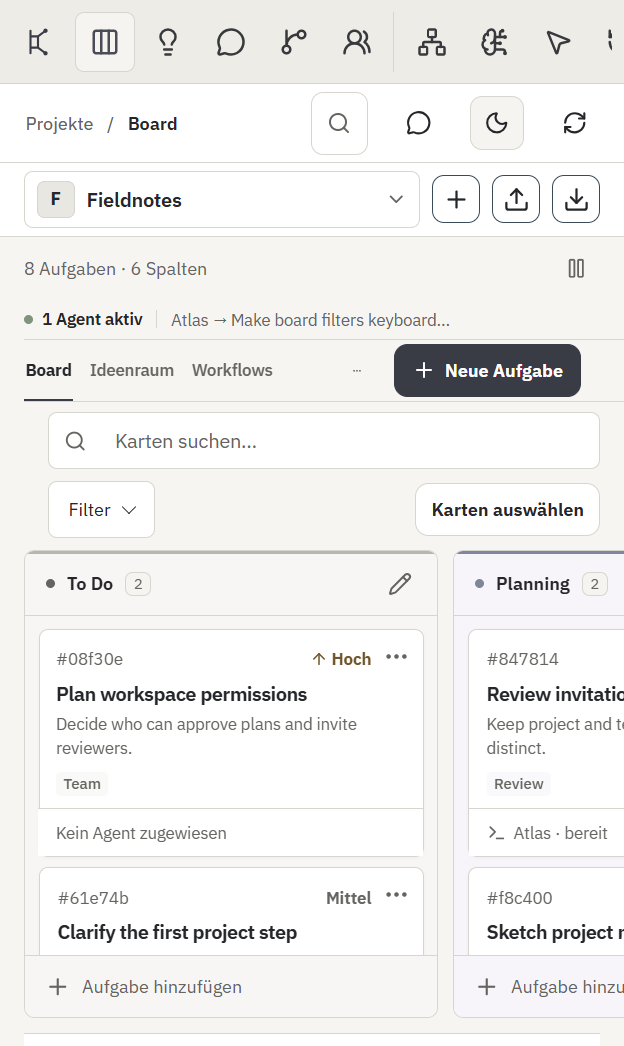
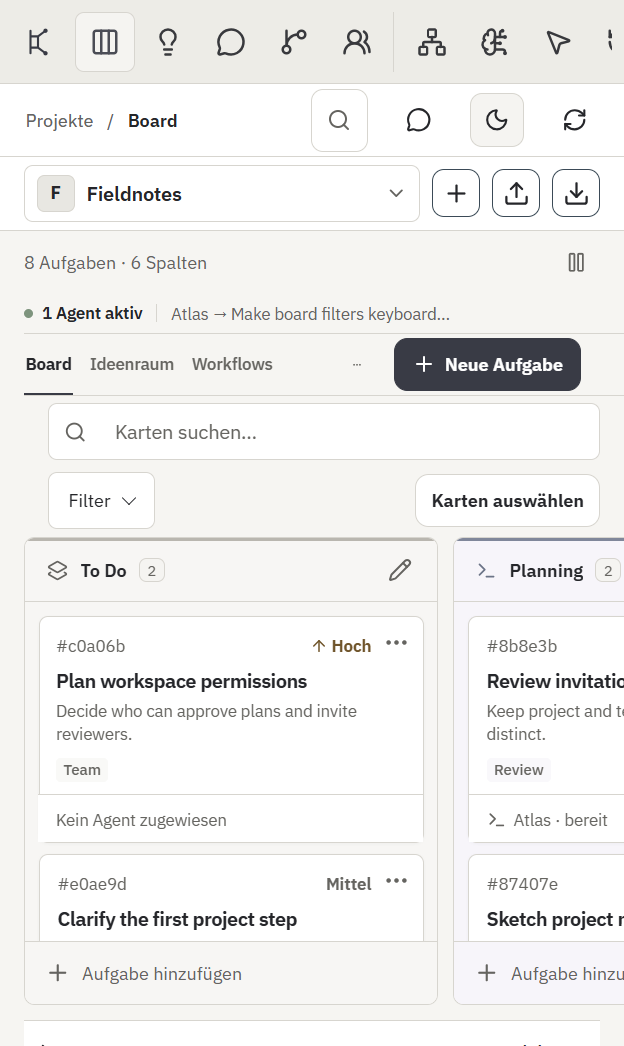
Refine board header density and column mode cues

diff --git a/src/renderer/signals.css b/src/renderer/signals.css
@@ -15,9 +15,9 @@
 :root[data-theme] .board-column[data-run-mode='automatic'] .column-header::before { background: #667bb5; }
 :root[data-theme] .column-title { gap: 8px; }
 :root[data-theme] .column-title h3 { font-size: 13px; font-weight: 650; }
-:root[data-theme] .column-indicator { width: 6px; height: 6px; border-radius: 50%; background: var(--muted); }
-:root[data-theme] .board-column[data-run-mode='manual-agent'] .column-indicator { background: #7c879c; }
-:root[data-theme] .board-column[data-run-mode='automatic'] .column-indicator { background: #667bb5; }
+:root[data-theme] .column-indicator { display: inline-flex; align-items: center; justify-content: center; width: 15px; height: 15px; border: 0; border-radius: 0; background: none; box-shadow: none; color: var(--muted); }
+:root[data-theme] .board-column[data-run-mode='manual-agent'] .column-indicator { color: #687489; }
+:root[data-theme] .board-column[data-run-mode='automatic'] .column-indicator { color: #526dad; }
 :root[data-theme] .count-pill { padding: 1px 5px; border-radius: 5px; font-size: 10px; font-variant-numeric: tabular-nums; }
 :root[data-theme] .column-body { gap: 7px; padding: 9px; min-height: 70px; }
 :root[data-theme] .board-card-wrap > .task-card { padding: 10px 33px 9px 36px; border-radius: 6px; border-color: var(--border); background: var(--surface); color: var(--text); box-shadow: none; transform: none; }
@@ -344,18 +344,18 @@
 }
 
 /* One project header, then work status and adjacent planning views. */
-:root[data-theme] .topbar-board { min-height: 52px; padding-block: 5px; }
+:root[data-theme] .topbar-board { min-height: 46px; padding-block: 3px; }
 :root[data-theme] .topbar-board .topbar-title h1 { display: flex; align-items: center; gap: 9px; font-size: 12px; font-weight: 600; letter-spacing: 0; }
 :root[data-theme] .topbar-board .topbar-title h1 > span:first-child,
 :root[data-theme] .topbar-breadcrumb-divider { color: var(--muted); font-weight: 450; }
 :root[data-theme] .board-page { padding-top: 0; }
-:root[data-theme] .board-project-masthead { display: flex; justify-content: space-between; align-items: center; gap: 16px; min-height: 72px; padding: 12px 29px 10px 0; }
+:root[data-theme] .board-project-masthead { display: flex; justify-content: space-between; align-items: center; gap: 16px; min-height: 62px; padding: 9px 29px 8px 0; }
 :root[data-theme] .board-project-identity { min-width: 0; }
 :root[data-theme] .board-project-identity h2 { overflow: hidden; margin: 0; color: var(--text); font-size: 20px; font-weight: 680; letter-spacing: -.035em; text-overflow: ellipsis; white-space: nowrap; }
 :root[data-theme] .board-project-identity > span { display: block; margin-top: 3px; color: var(--muted); font-size: 11px; font-variant-numeric: tabular-nums; }
 :root[data-theme] .board-project-masthead .project-pause-button { border-color: transparent; background: transparent; color: var(--muted); }
 :root[data-theme] .board-project-masthead .project-pause-button:hover:not(:disabled) { border-color: var(--border); background: var(--surface); color: var(--text); }
-:root[data-theme] .board-live-strip { display: flex; align-items: center; gap: 9px; min-height: 30px; padding: 0 29px 0 0; overflow: hidden; border-bottom: 1px solid var(--border); color: var(--muted); font-size: 11px; white-space: nowrap; }
+:root[data-theme] .board-live-strip { display: flex; align-items: center; gap: 9px; min-height: 28px; padding: 0 29px 0 0; overflow: hidden; border-bottom: 1px solid var(--border); color: var(--muted); font-size: 11px; white-space: nowrap; }
 :root[data-theme] .board-live-summary { display: inline-flex; align-items: center; gap: 6px; flex: none; color: var(--text); font-weight: 600; }
 :root[data-theme] .board-live-summary i { width: 6px; height: 6px; border-radius: 50%; background: #75957c; }
 :root[data-theme] .board-live-divider { width: 1px; height: 12px; flex: none; background: var(--border); }
@@ -363,18 +363,19 @@
 :root[data-theme] .board-live-strip button:hover { color: var(--text); text-decoration: underline; text-underline-offset: 3px; }
 :root[data-theme] .board-live-strip .board-decision-link { display: inline-flex; align-items: center; gap: 4px; flex: none; max-width: none; margin-left: auto; color: var(--text); font-weight: 600; }
 :root[data-theme] .board-decision-short { display: none; }
-:root[data-theme] .board-toolbar.board-header-actions { align-items: center; min-height: 43px; padding: 0 29px 0 0; border-bottom: 1px solid var(--border); }
+:root[data-theme] .board-toolbar.board-header-actions { align-items: center; min-height: 40px; padding: 0 29px 0 0; border-bottom: 1px solid var(--border); }
 :root[data-theme] .board-view-tabs { display: flex; align-self: stretch; align-items: stretch; gap: 17px; min-width: 0; }
 :root[data-theme] .board-view-tabs > * { display: inline-flex; align-items: center; position: relative; flex: none; padding: 0 1px; border: 0; background: transparent; color: var(--muted); font: inherit; font-size: 12px; font-weight: 540; white-space: nowrap; }
 :root[data-theme] .board-view-tabs > button { cursor: pointer; }
 :root[data-theme] .board-view-tabs > button:hover { color: var(--text); }
 :root[data-theme] .board-view-tabs > .is-active { color: var(--text); font-weight: 660; }
 :root[data-theme] .board-view-tabs > .is-active::after { position: absolute; right: 0; bottom: -1px; left: 0; height: 2px; background: var(--accent); content: ''; }
-:root[data-theme] .board-filters { padding-top: 7px; min-height: 48px; }
+:root[data-theme] .board-filters { padding-top: 5px; padding-bottom: 5px; min-height: 42px; }
 @media (max-width: 1200px) {
   :root[data-theme] .board-toolbar.board-header-actions { flex-direction: row; align-items: center; }
 }
 @media (max-width: 600px) {
+  :root[data-theme] .topbar-board { min-height: 46px; padding-block: 3px; }
   :root[data-theme] .board-project-masthead { min-height: 42px; padding: 5px 16px 5px 0; }
   :root[data-theme] .board-project-identity h2 { display: none; }
   :root[data-theme] .board-project-identity > span { margin-top: 0; font-size: 12px; }
@@ -387,4 +388,5 @@
   :root[data-theme] .board-toolbar.board-header-actions { min-height: 41px; overflow: visible; }
   :root[data-theme] .board-view-tabs { gap: 10px; overflow: auto; scrollbar-width: none; }
   :root[data-theme] .board-view-tabs > * { font-size: 11px; }
+  :root[data-theme] .board-filters { padding-block: 5px; }
 }

diff --git a/src/renderer/components/BoardView.tsx b/src/renderer/components/BoardView.tsx
@@ -1,6 +1,6 @@
 import { useEffect, useMemo, useRef, useState } from 'react';
 import { createPortal } from 'react-dom';
-import { Archive, ArrowDown, ArrowRight, ArrowUp, Copy, FileJson2, FolderOpen, GripVertical, MessageCircle, MoreHorizontal, Pause, Pencil, Play, Plus, Search, Terminal, X } from 'lucide-react';
+import { Archive, ArrowDown, ArrowRight, ArrowUp, Copy, FileJson2, FolderOpen, GripVertical, Layers2, MessageCircle, MoreHorizontal, Pause, Pencil, Play, Plus, Search, Terminal, X } from 'lucide-react';
 import type { Card, CardPriority, Column, ColumnEffort, ProjectSnapshot } from '../../shared/types';
 import type { WorkflowRunEvidence } from '../../shared/workflow-evidence';
 import { CARD_PRIORITIES } from '../../shared/card-metadata';
@@ -340,7 +340,7 @@ function BoardColumn({ column, columns, cards, snapshot, workflowEvidence, empty
   const activeOrder = snapshot.cards.filter((card) => card.columnId === column.id && !card.archivedAt).sort(compareCardOrder);
   const columnAgent = snapshot.agents.find((item) => item.id === column.agentId);
   return <section className="board-column" data-tint={column.tint ?? 'default'} data-run-mode={column.agentId ? column.autoStart ? 'automatic' : 'manual-agent' : 'manual'} onDragOver={(event) => event.preventDefault()} onDrop={(event) => onDrop(event, column.id)} aria-label={`Spalte ${column.name}`}>
-    <header className="column-header"><div className="column-heading"><div className="column-title"><span className="column-indicator" /><h3>{column.name}</h3><span className="count-pill">{cards.length}</span></div>{columnAgent ? <span className="column-run-summary">{columnAgent.name} · {column.autoStart ? 'Start beim Verschieben' : 'Start auf Anfrage'}</span> : null}</div><button ref={settingsTrigger} className="column-settings-trigger" type="button" aria-label={`Spalte ${column.name} einstellen`} aria-haspopup="dialog" aria-expanded={settingsOpen} title="Spalte einstellen" onClick={() => setSettingsOpen(true)}><Pencil size={16} aria-hidden="true" /></button></header>
+    <header className="column-header"><div className="column-heading"><div className="column-title"><span className="column-indicator" role="img" aria-label={columnAgent ? column.autoStart ? 'Agent startet automatisch' : 'Agent startet auf Anfrage' : 'Ohne Spaltenagent'} title={columnAgent ? column.autoStart ? 'Agent startet automatisch' : 'Agent startet auf Anfrage' : 'Ohne Spaltenagent'}>{columnAgent ? column.autoStart ? <Play size={13} aria-hidden="true" /> : <Terminal size={14} aria-hidden="true" /> : <Layers2 size={14} aria-hidden="true" />}</span><h3>{column.name}</h3><span className="count-pill">{cards.length}</span></div>{columnAgent ? <span className="column-run-summary">{columnAgent.name} · {column.autoStart ? 'Start beim Verschieben' : 'Start auf Anfrage'}</span> : null}</div><button ref={settingsTrigger} className="column-settings-trigger" type="button" aria-label={`Spalte ${column.name} einstellen`} aria-haspopup="dialog" aria-expanded={settingsOpen} title="Spalte einstellen" onClick={() => setSettingsOpen(true)}><Pencil size={16} aria-hidden="true" /></button></header>
     <div className="column-body">
       {cards.map((card) => {
         const index = activeOrder.findIndex((item) => item.id === card.id);

diff --git a/tests/renderer/board-filters.test.tsx b/tests/renderer/board-filters.test.tsx
@@ -86,9 +86,9 @@ describe('board filters and archive visibility', () => {
       project: { id: 'p', name: 'Synthetic', path: 'C:\\test', createdAt: stamp },
       columns: [
         { id: 'todo', projectId: 'p', name: 'To Do', position: 0, autoStart: false, agentId: null, model: null, effort: null },
-        { id: 'done', projectId: 'p', name: 'Done', position: 1, autoStart: false, agentId: null, model: null, effort: null },
+        { id: 'done', projectId: 'p', name: 'Done', position: 1, autoStart: true, agentId: 'agent', model: null, effort: null },
       ],
-      cards, agents: [], sessions: [], workflows: [], notes: [],
+      cards, agents: [{ id: 'agent', name: 'Atlas', kind: 'custom', command: 'node', args: [], model: null, enabled: true }], sessions: [], workflows: [], notes: [],
       queue: { projectId: 'p', state: 'off', templateWorkflowId: null, activeWorkflowId: null, pauseReason: null, completedCount: 0, updatedAt: null },
     };
     const html = renderToStaticMarkup(createElement(BoardView, { snapshot, mutate: async <T,>(action: () => Promise<T>) => action() }));
@@ -96,6 +96,8 @@ describe('board filters and archive visibility', () => {
     expect(html).toContain('board-project-masthead');
     expect(html).toContain('1 Aufgabe · 2 Spalten');
     expect(html).toContain('board-view-tabs');
+    expect(html).toContain('aria-label="Ohne Spaltenagent"');
+    expect(html).toContain('aria-label="Agent startet automatisch"');
     expect(html).toContain('Ideenraum');
     expect(html).toContain('Workflows');
     expect(html).not.toContain('board-live-strip');
